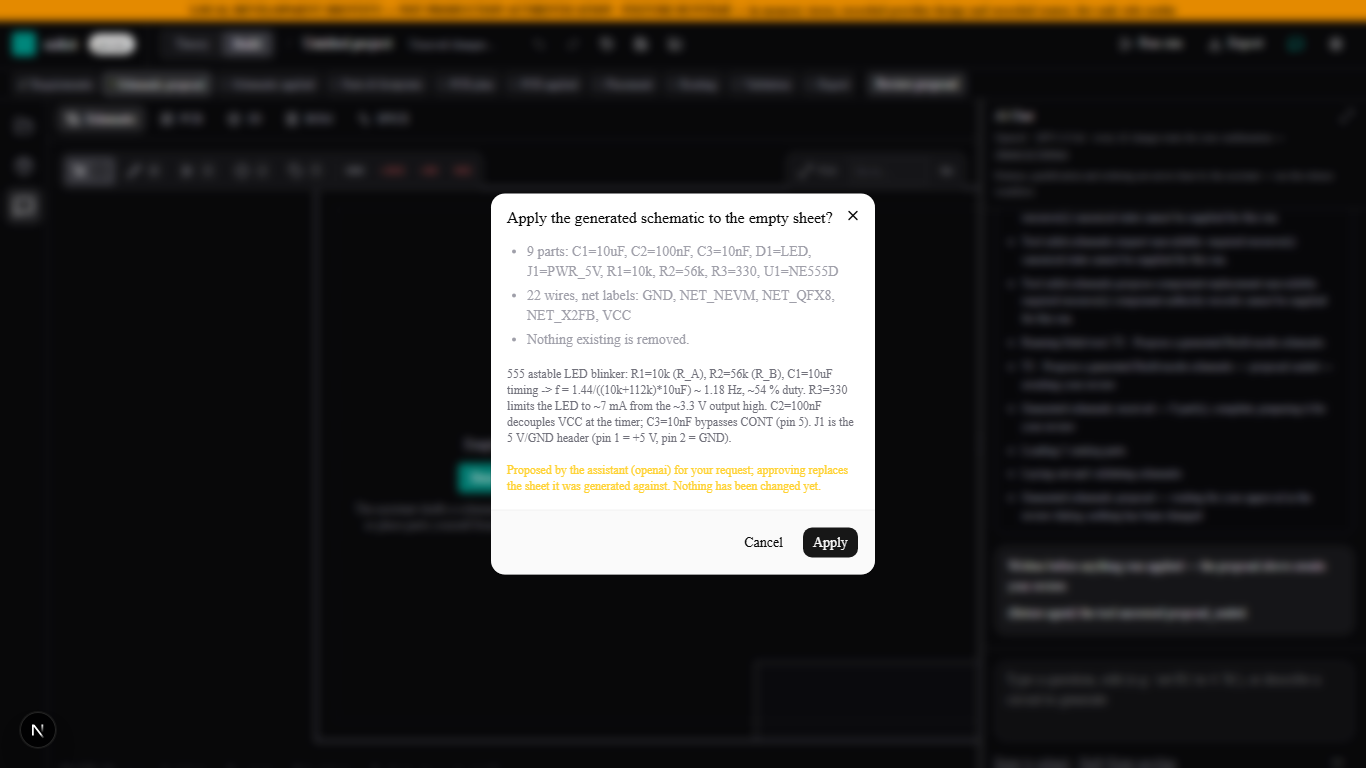
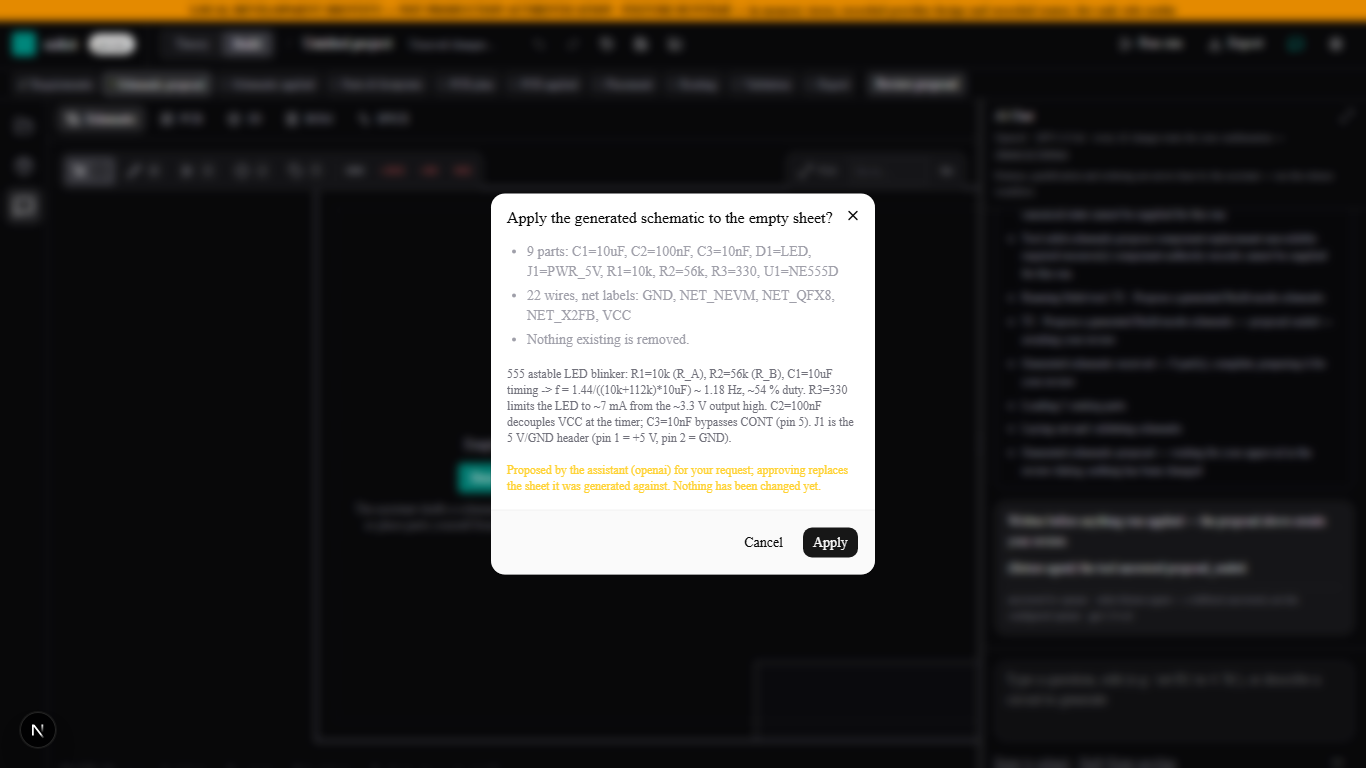
Product reliability G: the five fixture browser specs pass on the G tree; refreshed screenshots
simple-workspace, journey-contract, prompt-to-gerber, pr-f-missing-parts and pr-g-agent-generation ran on this branch's tree in its
own worktree (its own offline install; Turbopack refuses a dependency junction outside the project): 5 passed in 1.5 minutes. The
screenshots the specs re-captured are committed; validation.md, progress.md, the ledger and the program state record the run.

diff --git a/artifacts/product-reliability-simple-ui/validation.md b/artifacts/product-reliability-simple-ui/validation.md
@@ -136,7 +136,7 @@ uncommitted edits (see the note at the end).
 | worktree: the full positional selection | 495 files: 486 passed, 8 skipped, 1 failed — `b22-a3-diagnostic-runner` case 9 builds its "outside the OS temporary directory" path from the working directory, and the verification worktree itself lives under the OS temp folder, so the guard correctly does not fire there; the same case passes in the real checkout (run 2 below). 5610 tests passed, 54 skipped | 1 (explained) | deterministic |
 | main checkout, the full positional selection, run 2 (with the concurrent agent's edits present) | 495 files: 484 passed, 3 failed — `b21-b-page` cases 3 and 5 and `b24-a1-environment-profile` case 14 pin the bytes and lines of `build-multi/route.ts` and `anthropic-provider.ts`, which ONLY the concurrent agent's uncommitted edits changed (they pass at HEAD + G); `b24-f-verdict-lines` cases 6 and 9 (G's own: two count lines, the claim scan's exclusion line) fixed and re-run green | 1 | deterministic |
 | worktree: this assignment's own suites (`pr-a- … pr-g-`, `app/lib/parts`, `app/lib/llm`, `app/lib/workflow`, `app/lib/pcb/experiments`, `app/components/pcb/__tests__`, `app/lib/project/__tests__`) | 110 files, 854 passed, 1 skipped | 0 | deterministic |
-| fixture browser specs after the final page edits | NOT re-run: a `next dev` server from this checkout has listened on :3000 since 05:17 (the concurrent agent's or the owner's) and Next refuses a second dev server in the same project folder; an attempt from the verification worktree was stopped by pnpm's own guard before it could touch the dependency folder (verified intact). Deferred to the PR's CI browser job and to a local re-run once :3000 is free | — | — |
+| fixture browser specs after the final page edits, in the side worktree of this commit (`codex/product-reliability-g`, its own offline install: Turbopack refuses a dependency junction that points outside the project): `simple-workspace`, `journey-contract`, `prompt-to-gerber`, `pr-f-missing-parts`, `pr-g-agent-generation` | 5 passed (1.5 min); the screenshots re-captured by the specs are committed | 0 | fixture browser |
 
 Found by the lead and carried to the next increment: **19 of this assignment's vitest suites are selected by NO CI job** (the
 repository's CI runs selections; 329 of 936 test files overall are in no job). They run locally (the row above) but guard nothing in

diff --git a/artifacts/product-reliability-simple-ui/progress.md b/artifacts/product-reliability-simple-ui/progress.md
@@ -169,7 +169,7 @@ whole-repository eslint, every Playwright config, an e2e spec for the agent gene
 (≤ ~0.46 USD worst case, inside the owner's allowance) recorded in `live-spend.json`; then H (README, remaining-blockers,
 final-verdict, the PR on codex/astra-foundation, never merged by the builder), I; then J, then K.
 
-## Checkpoint G — verification (2026-10-17): PARTIAL (deterministic proof done; CI admission and the browser re-run carried forward)
+## Checkpoint G — verification (2026-10-17): PARTIAL (deterministic and browser proof done; CI admission carried forward)
 
 Landed: the page's intakes for the assistant's draft request, module contracts and stackup candidate (review cards and the existing
 stackup selector; nothing applied by an artifact); the chat answer's model label from the run's own events; the scripted agent's
@@ -179,9 +179,8 @@ Stage 3 import boundary (the shared Theory physicality rule in its own module); 
 `remaining-blockers.md` of the evidence package.
 
 Verified: the commit's tree alone (HEAD + G) type-checks and passes the CI job's full positional selection (one explained case) and
-all 110 of this assignment's suites. Not verified here: the five fixture browser specs after the final page edits (a dev server owned by
-the concurrent agent or the owner occupies the checkout).
+all 110 of this assignment's suites. The five fixture browser specs pass on this tree (run in the side worktree of the commit, 2026-10-17).
 
 Exact next step: admit the 19 CI-orphaned suites through the prompt-to-gerber / agent-boundary mechanism and re-measure the CI-split
-evidence at that tree (OD-30's 40 % line); re-run the browser specs when :3000 is free; then H — the PR on codex/astra-foundation
+evidence at that tree (OD-30's 40 % line); then H — the PR on codex/astra-foundation
 (never merged by the builder), its CI, `final-verdict.md`; then I.

diff --git a/artifacts/remaining-builder-program/EXECUTION_LEDGER.md b/artifacts/remaining-builder-program/EXECUTION_LEDGER.md
@@ -5748,6 +5748,7 @@ validation.md §C, workflow-contract.md, fault-register.md, live-spend.json).
 - **Gates:** worktree HEAD + G: tsc 0; the CI job's full positional selection 486 / 495 files (one explained environment case); this
   assignment's 110 suites 854 passed; history and tree secret scans exit 0. Main checkout: three cases red only through the concurrent
   agent's uncommitted edits.
-- **Carried forward:** 19 suites in no CI job → admission + the CI-split re-measurement; the browser re-run after the final page edits.
+- **Browser:** the five fixture specs passed on the commit's tree in the side worktree (`codex/product-reliability-g`).
+- **Carried forward:** 19 suites in no CI job → admission + the CI-split re-measurement.
 - **Concurrent work:** an OpenAI Codex agent edited 15 files from 05:47 (Build generation deadline and cancellation); excluded from
   this commit, untouched.
